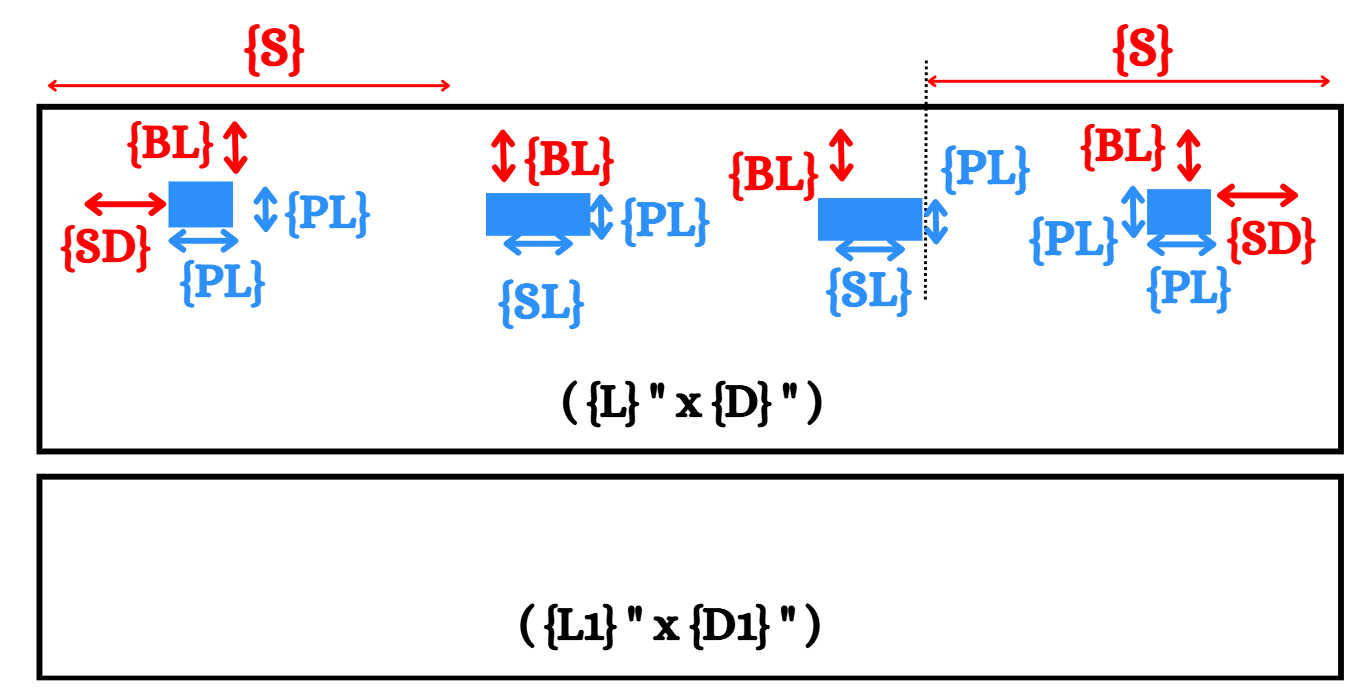
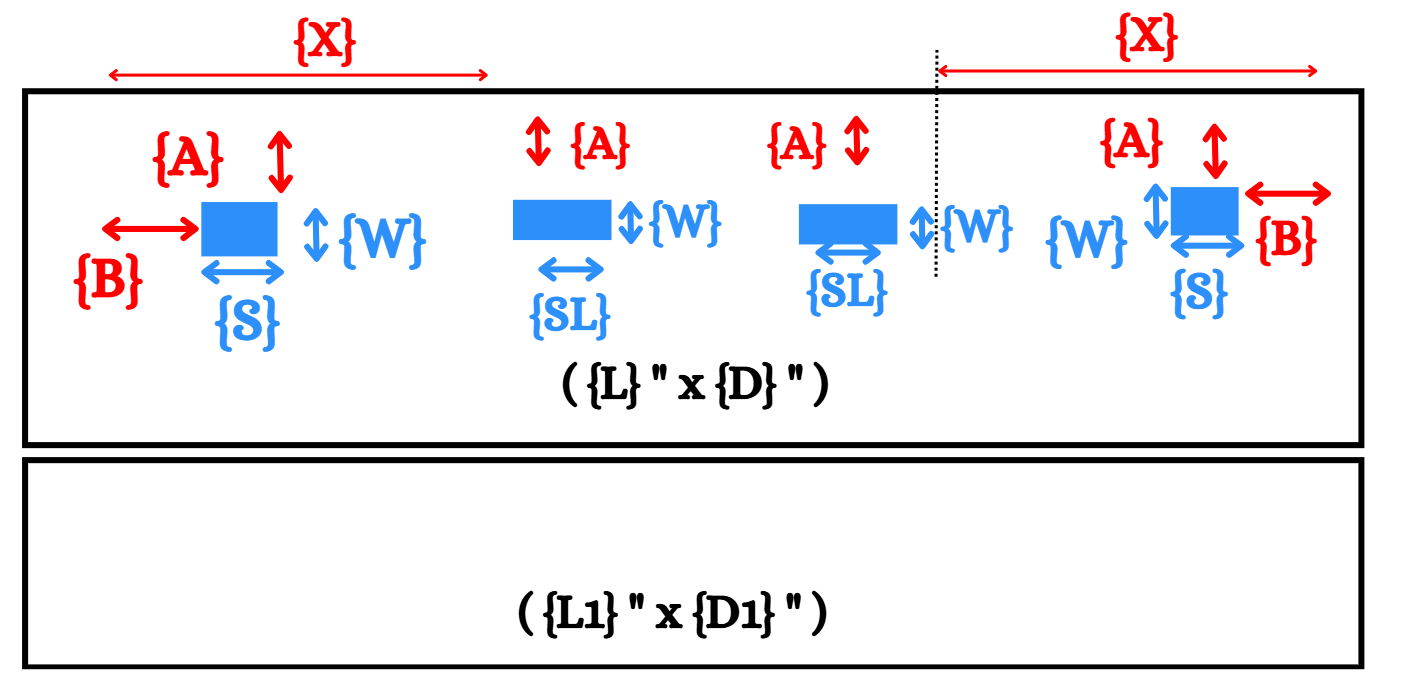
updated mappings cells

Changed region(s): [[0.0, 0.0, 0.9882, 0.9767], [0.3706, 0.5189, 0.6176, 0.6105]]

diff --git a/frontend/vite.config.js b/frontend/vite.config.js
@@ -4,4 +4,7 @@ import react from '@vitejs/plugin-react'
 // https://vite.dev/config/
 export default defineConfig({
   plugins: [react()],
+  server: {
+    host: true, // expose on the network (0.0.0.0), not just localhost
+  },
 })

diff --git a/frontend/src/index.css b/frontend/src/index.css
@@ -816,8 +816,6 @@ footer {
   height: 100%;
   object-fit: contain;
   display: block;
-  min-width: 0;
-  min-height: 0;
 }
 .a4-legend {
   font-family: "IBM Plex Mono", monospace;

diff --git a/backend/app/services/image_selector.py b/backend/app/services/image_selector.py
@@ -55,6 +55,7 @@ def _load_image_variants() -> Dict[str, List[Dict[str, str]]]:
 
 
 _IMAGE_VARIANTS = _load_image_variants()
+_OUTPUT_MAPPINGS_BY_IMAGE: Dict[str, Dict[str, str]] = _IMAGE_VARIANTS.pop("output_mappings_by_image", {})
 
 
 def _normalize_pillar_pattern(value: Any) -> str:
@@ -75,7 +76,10 @@ def effective_steps(level_count: Any, component_box: Any) -> int:
     return max(steps, 0)
 
 
-def _lookup_top_table(provided: Dict[str, Any], fields: list) -> Optional[Path]:
+def _match_top_row(provided: Dict[str, Any], fields: list) -> Optional[Dict[str, Any]]:
+    """Same match criteria _lookup_top_table always used, factored out so the
+    image lookup and the output-mapping lookup share one source of truth for
+    what counts as 'the same variant'."""
     rows = _IMAGE_VARIANTS.get("top")
     if not rows:
         return None
@@ -97,11 +101,18 @@ def _lookup_top_table(provided: Dict[str, Any], fields: list) -> Optional[Path]:
             and row.get("pillar_back_pattern") == back_pattern
             and str(row.get("elephant", "no")).lower() == elephant
         ):
-            return _TEMPLATES_DIR / row["image"]
+            return row
     return None
 
 
-def _lookup_side_table(provided: Dict[str, Any], fields: list) -> Optional[Path]:
+def _lookup_top_table(provided: Dict[str, Any], fields: list) -> Optional[Path]:
+    row = _match_top_row(provided, fields)
+    return (_TEMPLATES_DIR / row["image"]) if row else None
+
+
+def _match_side_row(provided: Dict[str, Any], fields: list) -> Optional[Dict[str, Any]]:
+    """Same match criteria _lookup_side_table always used, factored out for
+    reuse by the output-mapping lookup."""
     rows = _IMAGE_VARIANTS.get("side_cutting")
     if not rows:
         return None
@@ -118,11 +129,18 @@ def _lookup_side_table(provided: Dict[str, Any], fields: list) -> Optional[Path]
 
     for row in rows:
         if row.get("component_box") == component_box and int(row.get("level_count", -1)) == level_count:
-            return _TEMPLATES_DIR / row["image"]
+            return row
     return None
 
 
-def _lookup_level_table(template_key: str, provided: Dict[str, Any], fields: list) -> Optional[Path]:
+def _lookup_side_table(provided: Dict[str, Any], fields: list) -> Optional[Path]:
+    row = _match_side_row(provided, fields)
+    return (_TEMPLATES_DIR / row["image"]) if row else None
+
+
+def _match_level_row(template_key: str, provided: Dict[str, Any], fields: list) -> Optional[Dict[str, Any]]:
+    """Same match criteria _lookup_level_table always used, factored out for
+    reuse by the output-mapping lookup."""
     rows = _IMAGE_VARIANTS.get(template_key)
     if not rows:
         return None
@@ -137,8 +155,56 @@ def _lookup_level_table(template_key: str, provided: Dict[str, Any], fields: lis
 
     for row in rows:
         if int(row.get("level_count", -1)) == level_count:
-            return _TEMPLATES_DIR / row["image"]
+            return row
     return None
+
+
+def _lookup_level_table(template_key: str, provided: Dict[str, Any], fields: list) -> Optional[Path]:
+    row = _match_level_row(template_key, provided, fields)
+    return (_TEMPLATES_DIR / row["image"]) if row else None
+
+
+def resolve_output_mappings(template_key: str, cfg: Dict[str, Any], provided: Dict[str, Any]) -> Dict[str, str]:
+    """Returns the output_mappings dict (Excel cell addresses) to use for this
+    specific request.
+
+    Mirrors resolve_image()'s variant-matching (same rows in image_variants.json,
+    same match fields), but instead of returning an image path, returns that
+    matched row's own "output_mappings" override if it has one.
+
+    Resolution order (first one found wins):
+      1. The matched row's own inline "output_mappings" (rare \u2014 only for a variant
+         that must differ despite sharing an image with others).
+      2. The shared "output_mappings_by_image" table, keyed by that row's "image"
+         value \u2014 the normal case, since variants sharing an image share variables
+         and therefore share cells too, defined once instead of repeated per row.
+      3. The template's static cfg["output_mappings"] \u2014 unchanged prior behavior
+         for any template/variant with no mapping configured yet.
+    """
+    default_mappings = cfg["output_mappings"]
+    rule = cfg.get("image_rule")
+    if not rule:
+        return default_mappings
+
+    rule_type = rule.get("type")
+    fields = rule.get("fields", [])
+
+    row: Optional[Dict[str, Any]] = None
+    if rule_type == "pillar_and_box":
+        row = _match_top_row(provided, fields)
+    elif rule_type == "steps_and_box":
+        row = _match_side_row(provided, fields)
+    elif rule_type == "level_steps":
+        row = _match_level_row(template_key, provided, fields)
+
+    if not row:
+        return default_mappings
+    if row.get("output_mappings"):
+        return row["output_mappings"]
+    shared = _OUTPUT_MAPPINGS_BY_IMAGE.get(row.get("image"))
+    if shared:
+        return shared
+    return default_mappings
 
 
 def _find_top_image(provided: Dict[str, Any], prefix: str, fields: list) -> Optional[Path]:

diff --git a/backend/app/routes/routes_generate.py b/backend/app/routes/routes_generate.py
@@ -6,7 +6,7 @@ from fastapi.responses import FileResponse
 
 from app.config.template_config import load_template_config
 from app.schemas.request_models import GenerateRequest, GenerateResponse
-from app.services.image_selector import resolve_image
+from app.services.image_selector import resolve_image, resolve_output_mappings
 from app.services.sheets_service import write_inputs_and_read_outputs
 from app.services.template_service import render_template
 
@@ -61,11 +61,13 @@ def generate_work_order(request: GenerateRequest):
     # ── Step 1: Write inputs → read outputs via Sheets ─────────────────────
     logger.info("Processing template '%s' with inputs: %s", template_key, provided)
 
+    output_mappings = resolve_output_mappings(template_key, cfg, provided)
+
     try:
         output_values = write_inputs_and_read_outputs(
             inputs=provided,
             input_mappings=cfg["input_mappings"],
-            output_mappings=cfg["output_mappings"],
+            output_mappings=output_mappings,
             input_sheet=cfg["input_sheet"],
             output_sheet=cfg["output_sheet"],
         )